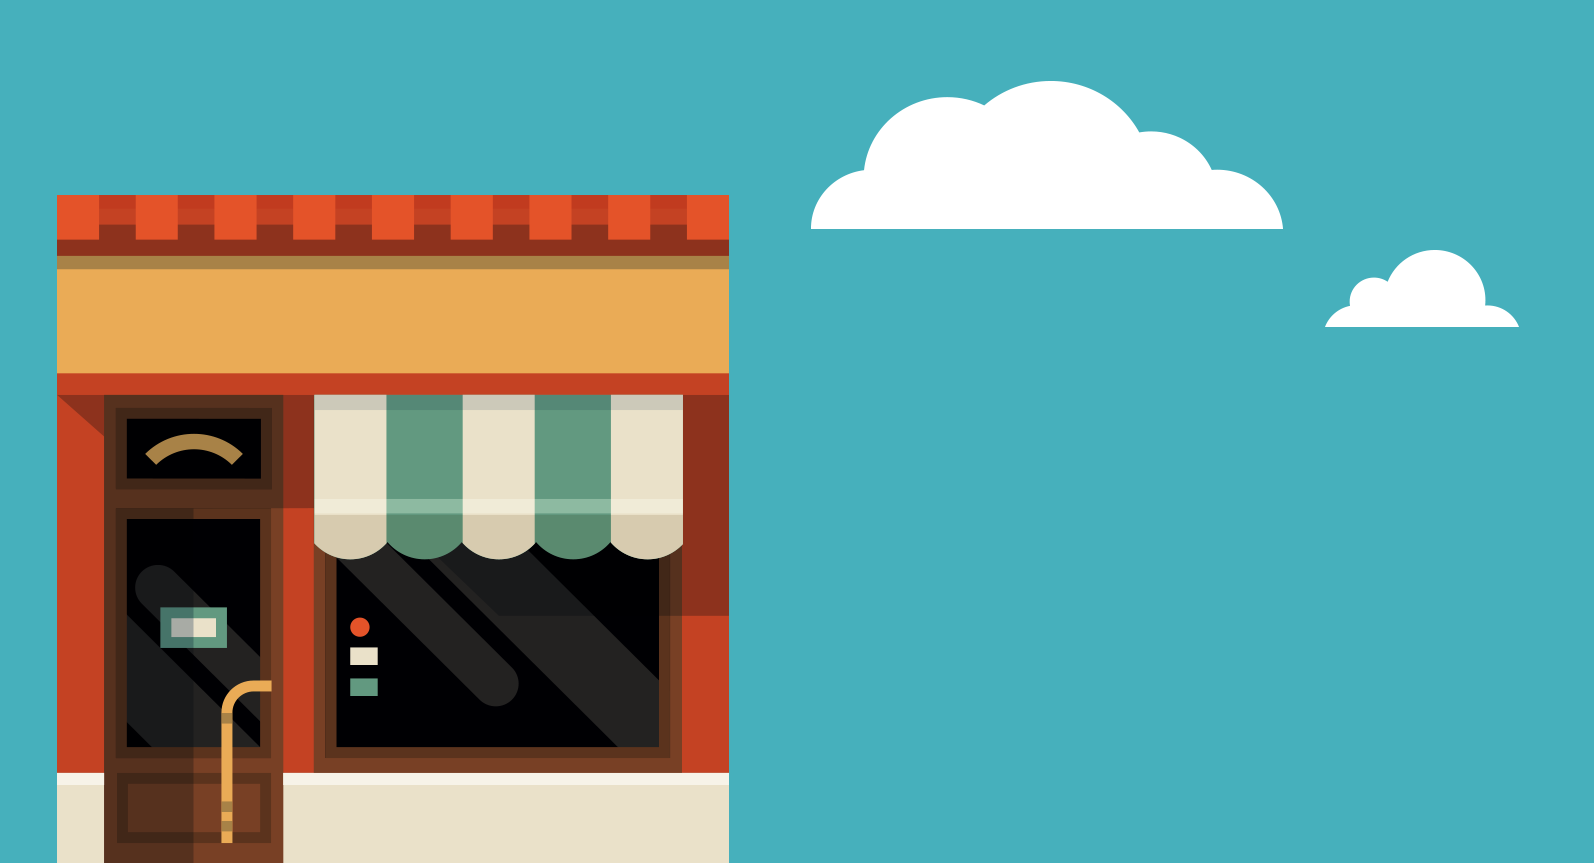
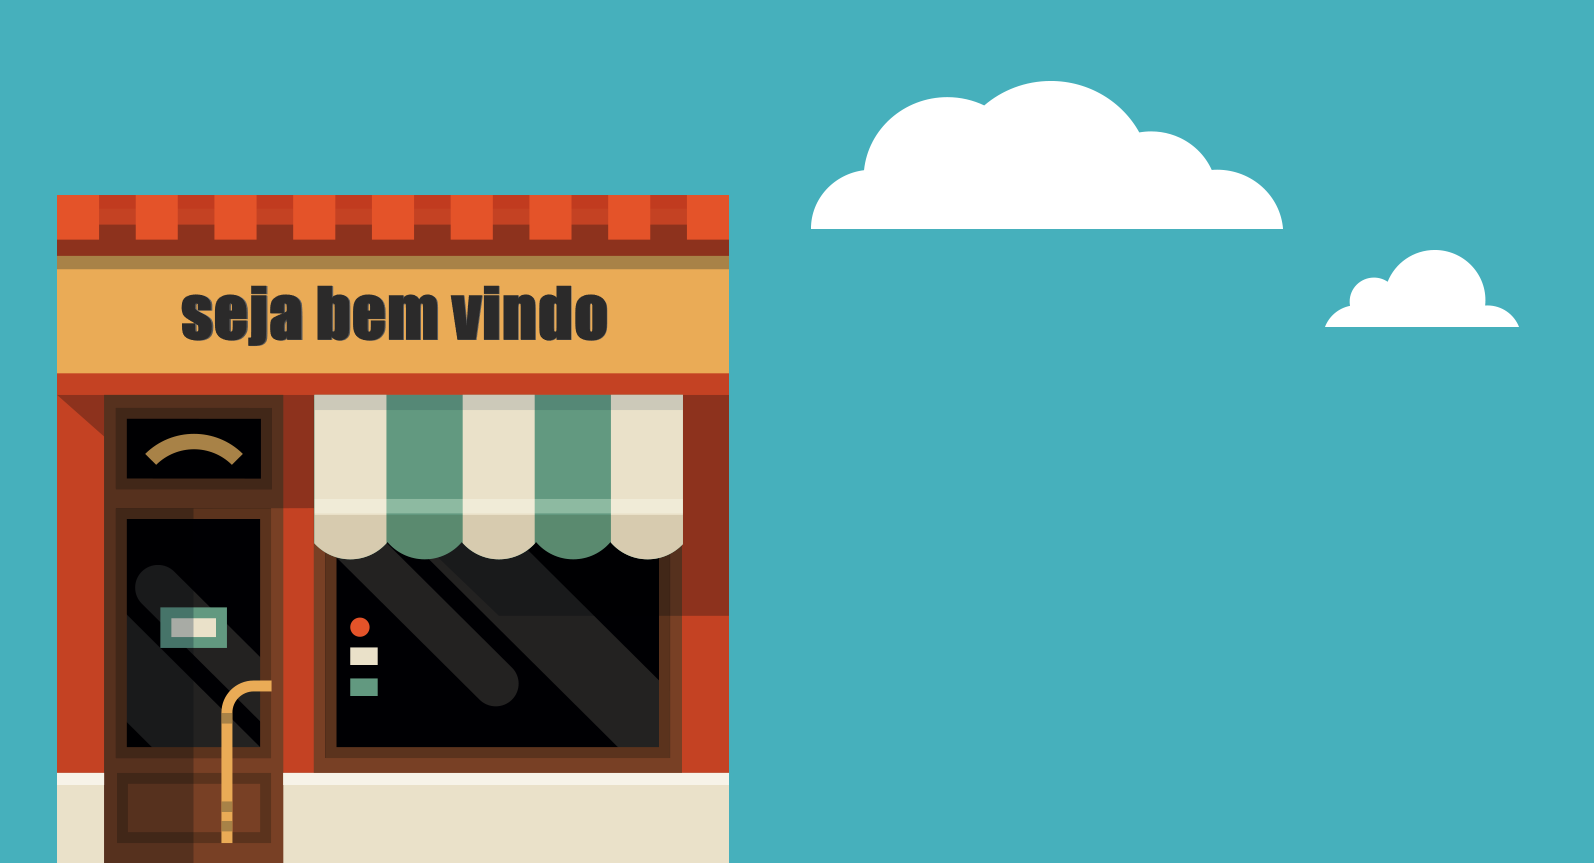
28/10 Home melhorado

Changed region(s): [[0.0922, 0.3314, 0.3996, 0.4218]]

diff --git a/Ambiente_PRO/Projeto/Projeto_Joaninha/Home/templates/Home/Home.html b/Ambiente_PRO/Projeto/Projeto_Joaninha/Home/templates/Home/Home.html
@@ -2,7 +2,7 @@
 <!DOCTYPE html> 
 <html>
     <head>
-        <meta charset="utf-8"> 
+        <meta charset="UTF-8"> 
         <title>Joaninha</title>
         <link rel="icon" href="{% static 'imagens/bob.png' %}">
         <link href="https://fonts.googleapis.com/css?family=Kaushan+Script&display=swap" rel="stylesheet">    
@@ -13,6 +13,7 @@
     <body>
         {% block conteudo %}
         <!-- https://medium.com/horadecodar/criando-templates-no-django-e-adicionando-css-f200310cca56 -->
+        <div id='fundo'>
         <header>
             <div class="menu"> 
                 <nav>
@@ -25,14 +26,16 @@
                 </nav>
             </div>
         </header>
-        <section class="content">
-                <div class="par">
-                    <p>RESTAURANTE JOANINHA</p>
-                    <P>SEJA BEM VINDO</P>
-                    <marquee behavior="" direction="right"><img src="{% static 'imagens/20-imagem.gif' %}" alt=""></marquee>
-                    <marquee behavior="" direction=""><p>sabor incomparável para satisfazer seu paladar</p></marquee>
-                </div>
-        </section>
+                <section class="content">
+                    <div class="par">
+                        <p id="espaço">RESTAURANTE  JOANINHA</p>
+                        <!-- <marquee behavior="" direction="right"><img src="{% static 'imagens/20-imagem.gif' %}" alt=""></marquee> -->
+                        <marquee behavior="" direction="" id="final"><p>sabor incomparável para satisfazer seu paladar</p></marquee>
+                    </div>
+                </section>
+            </div>
+        </div>    
+         
         {% endblock %}
     </body>
 </html>

diff --git a/Ambiente_PRO/Projeto/Projeto_Joaninha/Home/static/css/Home.css b/Ambiente_PRO/Projeto/Projeto_Joaninha/Home/static/css/Home.css
@@ -1,27 +1,32 @@
 *{margin: 0;padding: 0;box-sizing: border-box;}
 body{
-    
-    background-image: url(../imagens/imagem-32.jpg);  
+    width: 100%;
+    height: 100%;
+    background-color: rgba(0, 0, 0, 0.876);
+    background-image: url(../imagens/fundo-2.jpg);
     background-repeat: no-repeat;
+    background-size:cover;
+}
+#fundo{
+    width: 100%;
+    height: 100%;
     
-    background-size:cover ;
-    background-color: #000000;
+    
+      
+   
     
 }
 .menu{
-    max-width: 1100px;
-    margin: 0 auto;
-    padding: 0 2%;
-    
+    max-width: 100%;   
+}
+#espaço{
+    padding-top:2%;
 }
 header{
-    position: fixed;
-    left: 0;
-    top: 0;
     width: 100%;
-    padding: 9px 0;
+    padding: 5px 0;
     text-align: center;
-    background-color: rgba(165, 42, 42, 0.479);
+    background-color:rgba(0, 0, 0, 0.609) ;
     border-bottom:2px solid;
     
 }
@@ -35,11 +40,9 @@ li :hover{
 header a{
     font-size: 16px;
     text-decoration: none;
-    color: black;
+    color: white;
 }
-section.content{
-    margin-top:70px;
-}
+
 .conteudo{
     text-align: center;
    
@@ -48,18 +51,26 @@ section.content{
 }
 
 .par{
-    padding-top:4px ;
+    /* padding-top:4px ; */
     font-size: 40px;
     text-align: center;
-    color:#ff8106;
+    color:white;
     /* color: #ff2b00; */
     font-family: 'Kaushan Script', cursive;
-        
-
+    /* background-image: url(../imagens/fundo-1.jpg);
+    background-repeat: no-repeat;
+    background-size:cover; */
+    
 }
 p{
     text-shadow: 2px 5px #000000;
 }
+#final{
+    position: fixed;
+    bottom:3%;
+    left:0;
+}
+
 
 
 

diff --git a/Ambiente_PRO/Projeto/Projeto_Joaninha/core/templates/index.html b/Ambiente_PRO/Projeto/Projeto_Joaninha/core/templates/index.html
@@ -3,11 +3,9 @@
 
 {% block content %}
 
-<div id="h1">
-  <h1>SEJA BEM VINDO</h1>
-  <div id="mover" >
-    <div id="imagem"></div>
-  </div>
+<div id="mover">
+  <div id="imagem"></div>
+
 </div>
   
 
@@ -31,8 +29,6 @@
       }
       #h1{
         text-align:initial;
-        background-color:;
-        color: ;
         padding-top:180px;
         padding-left: 50px;
         height: 500px;

diff --git a/Ambiente_PRO/Projeto/Projeto_Joaninha/core/templates/base.html b/Ambiente_PRO/Projeto/Projeto_Joaninha/core/templates/base.html
@@ -16,7 +16,7 @@
         <!-- Required meta tags -->
         <meta charset="utf-8">
         <meta name="viewport" content="width=device-width, initial-scale=1, shrink-to-fit=no">
-        <link rel="shortcut icon" href="https://www.djangoproject.com/favicon.ico">
+        <link rel="icon" href="../static/15-imagem.png">
         <title>Estoque</title>
     
         <!-- Bootstrap CSS -->

diff --git a/Ambiente_PRO/Projeto/Projeto_Joaninha/Home/static/css/estilopedido.css b/Ambiente_PRO/Projeto/Projeto_Joaninha/Home/static/css/estilopedido.css
@@ -20,6 +20,7 @@ body{
     border-style: solid;
     background-color: brown;
 }
+
 a{
     text-decoration:none;
     color: black;
